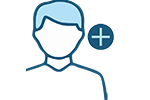
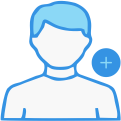
icones

diff --git a/resources/views/adm/index/index.blade.php b/resources/views/adm/index/index.blade.php
@@ -13,7 +13,7 @@
     <div class="col col-sm-12 col-md-12 col-lg-3 mb-3 mt-3">
             <a href="/adm/criar/clinica/{{$pessoa['pessoa_cpf']}}">
                 <div class="card card-menu-individual">
-                    <img src="../../img/usuario/novaclinica.png" class="card-img-top  mx-auto d-block mt-3 menu-paciente" alt="...">
+                    <img src="../../img/usuario/novaclinica2.png" class="card-img-top  mx-auto d-block mt-3 menu-paciente" alt="...">
                     <div class="card-body">
                         <h5 class="card-title">Nova Clínica</h5>
                         <p class="card-text"></p>
@@ -26,7 +26,7 @@
         <div class="col col-sm-12 col-md-12 col-lg-3 mb-3 mt-3">
             <a href="/adm/criar/medico/{{$pessoa['pessoa_cpf']}}" >
                 <div class="card card-menu-individual">
-                <img src="../../img/usuario/consulta.png" class="card-img-top  mx-auto d-block mt-3 menu-paciente" alt="imagem logo estetoscopio azul, e um coração com coração vermelho no centro" >
+                <img src="../../img/usuario/novoMedico.png" class="card-img-top  mx-auto d-block mt-3 menu-paciente" alt="imagem logo estetoscopio azul, e um coração com coração vermelho no centro" >
                     <div class="card-body">
                         <h5 class="card-title">Novo(a) Médico(a)</h5>
                         <p class="card-text"></p>
@@ -39,7 +39,7 @@
         <div class="col col-sm-12 col-md-12 col-lg-3 mb-3 mt-3">
         <a href="/adm/criar/recep/{{$pessoa['pessoa_cpf']}}" >
                 <div class="card card-menu-individual">
-                <img src="../../img/usuario/contato3.png" class="card-img-top  mx-auto d-block mt-3 menu-paciente" alt="imagem logo estetoscopio azul, e um coração com coração vermelho no centro" >
+                <img src="../../img/usuario/novaRecp.png" class="card-img-top  mx-auto d-block mt-3 menu-paciente" alt="imagem logo estetoscopio azul, e um coração com coração vermelho no centro" >
                     <div class="card-body">
                         <h5 class="card-title">Novo(a) Recepcionista</h5>
                         <p class="card-text"></p>
@@ -51,7 +51,7 @@
         <div class="col col-sm-12 col-md-12 col-lg-3 mb-3 mt-3">
             <a href="/adm/listar/listar_clinicas/{{$pessoa['pessoa_cpf']}}">
                 <div class="card card-menu-individual">
-                    <img src="../../img/usuario/novaclinica.png" class="card-img-top  mx-auto d-block mt-3 menu-paciente" alt="...">
+                    <img src="../../img/usuario/listaFunc.png" class="card-img-top  mx-auto d-block mt-3 menu-paciente" alt="...">
                     <div class="card-body">
                         <h5 class="card-title">Listar Funcionarios</h5>
                         <p class="card-text"></p>

diff --git a/resources/views/medico/index/index.blade.php b/resources/views/medico/index/index.blade.php
@@ -13,7 +13,7 @@
         <div class="col col-sm-12 col-md-12 col-lg-3 mb-3 mt-3">
             <a href="/medico/consultas/index/{{$pessoa['pessoa_cpf']}}">
                 <div class="card card-menu-individual">
-                <img src="../../img/usuario/consulta2.png" class="card-img-top  mx-auto d-block mt-3 menu-paciente" alt="imagem logo estetoscopio azul, e um coração com coração vermelho no centro" >
+                <img src="../../img/usuario/consulta1.png" class="card-img-top  mx-auto d-block mt-3 menu-paciente" alt="imagem logo estetoscopio azul, e um coração com coração vermelho no centro" >
                     <div class="card-body">
                         <h5 class="card-title">Consultas</h5>
                         <p class="card-text"></p>
@@ -21,7 +21,8 @@
                 </div>
             </a>
         </div>
-        
+
+       <!-- 
         <div class="col col-sm-12 col-md-12 col-lg-3 mb-3 mt-3">
             <div class="card card-menu-individual">
                 <img src="../../img/usuario/contato3.png" class="card-img-top  mx-auto d-block mt-3 menu-paciente" alt="...">
@@ -31,6 +32,7 @@
             </div>
             </div>
         </div>
+        -->
 
     </div>
 

diff --git a/resources/views/paciente/index/index.blade.php b/resources/views/paciente/index/index.blade.php
@@ -35,7 +35,7 @@
             </a>
         </div>
 
-        
+        <!--
         <div class="col col-sm-12 col-md-12 col-lg-3 mb-3 mt-3">
             <div class="card card-menu-individual">
                 <img src="../../img/usuario/contato3.png" class="card-img-top  mx-auto d-block mt-3 menu-paciente" alt="...">
@@ -45,7 +45,8 @@
             </div>
             </div>
         </div>
-
+        -->
+        
         <div class="col col-sm-12 col-md-12 col-lg-3 mb-3 mt-3">
             <a href="/paciente/informacao/{{$pessoa['pessoa_cpf']}}/2" >
                 <div class="card card-menu-individual">

diff --git a/resources/views/secretaria/index/index.blade.php b/resources/views/secretaria/index/index.blade.php
@@ -35,6 +35,7 @@
             </a>
         </div>
         
+        <!--
         <div class="col col-sm-12 col-md-12 col-lg-3 mb-3 mt-3">
             <div class="card card-menu-individual">
                 <img src="../../img/usuario/contato3.png" class="card-img-top  mx-auto d-block mt-3 menu-paciente" alt="...">
@@ -44,7 +45,7 @@
             </div>
             </div>
         </div>
-
+        -->
         
         <div class="col col-sm-12 col-md-12 col-lg-3 mb-3 mt-3">
             <a href="/pessoa/cadastrar/paciente" >

diff --git a/resources/views/entrar/selecao-tipo-acesso.blade.php b/resources/views/entrar/selecao-tipo-acesso.blade.php
@@ -97,7 +97,7 @@
                 <div class="col col-sm-12 col-md-3 col-lg-3 mt-5 mb-5">
               @endif
                   <a href="/adm/index/{{$cpf}}">
-                    <img src="../../img/usuario/adm.png" id="adm" class="card-img-top  mx-auto d-block mt-3 menu-paciente-inicio" alt="...">
+                    <img src="../../img/usuario/adm2.png" id="adm" class="card-img-top  mx-auto d-block mt-3 menu-paciente-inicio" alt="...">
                   </a>
                 
               </div>

diff --git a/resources/views/layout.blade.php b/resources/views/layout.blade.php
@@ -17,7 +17,7 @@
         <div class="container">
             <h1>@yield('cabecalho')</h1>
             <div style="text-align:right; width:100%; padding:0;">
-                <input type="button" class="btn btn-primary" value="Voltar" onClick="history.go(-1)">
+                <input type="button" class="btn btn-primary" value="Voltar" onClick="history.go(-2)">
                 <a href="/sair">Sair</a>
 
                 
